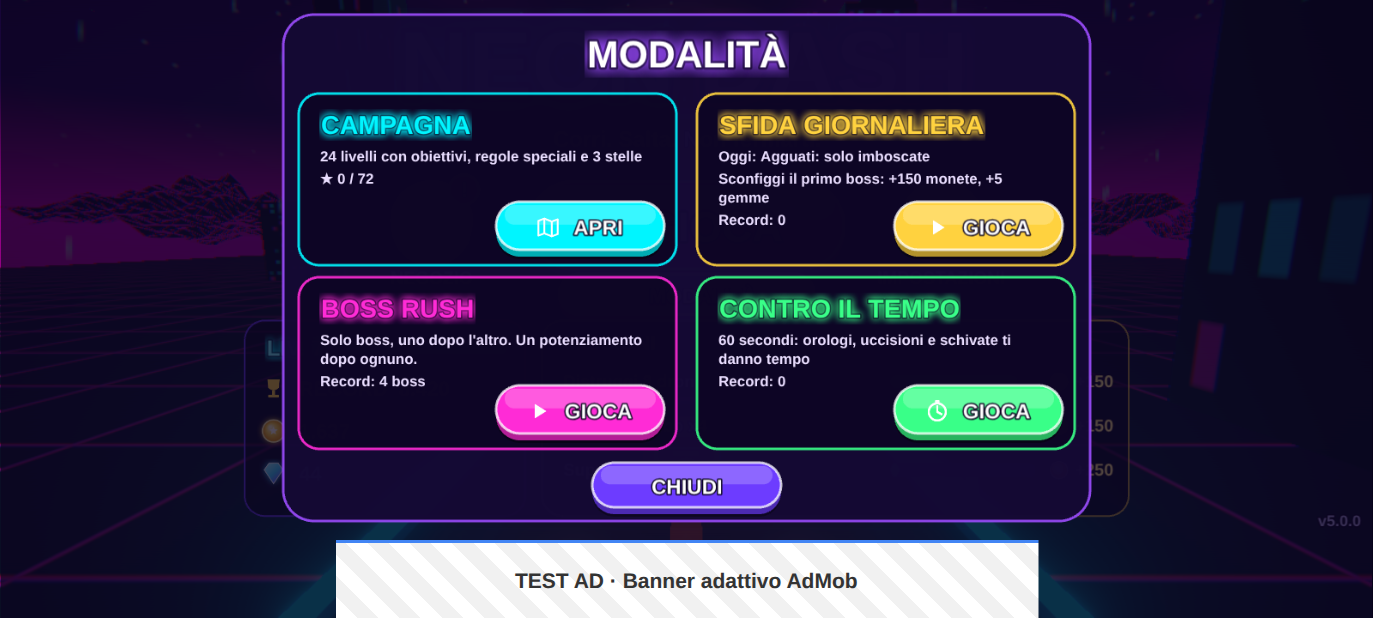
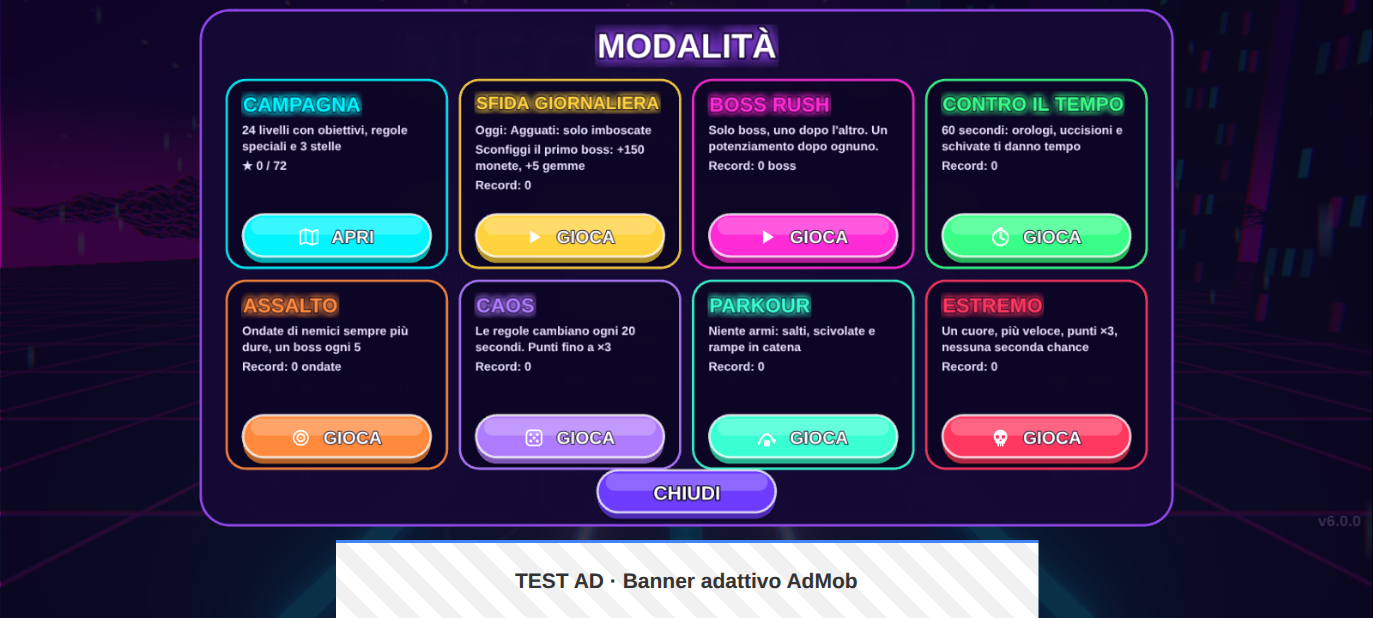
Keep slow devices playable: lighter sun rays, auto quality counts half-second frames
CI failed the browser run at 2 fps: frames of ~0.5 s were dropped as
'pauses', so the automatic quality never stepped down to low. Only frames
over 1.5 s count as pauses now (test added). The god rays only run around
the sun (6 taps on medium, 12 on high) instead of over the whole screen.

README: the 8-mode screen and nine v6 screenshots (assault, chaos,
parkour, road mirror and rays, lava cracks, caustics, warp, record gate,
afterimages).

Claude-Session: https://claude.ai/code/session_01MLEYxGAkkzc4Sh164Z1jeT

diff --git a/src/three/Stage.js b/src/three/Stage.js
@@ -15,8 +15,8 @@ import { ROAD } from './shading.js';
  */
 export const QUALITY = Object.freeze({
   low: { pixelRatio: 1, antialias: false, post: false, msaa: 0, bloom: 0, buildings: 24, particles: 220, trail: false, weather: 120, props: 0.5, rays: 0, mirror: 0 },
-  medium: { pixelRatio: 1.25, antialias: false, post: true, msaa: 0, bloom: 0.85, buildings: 44, particles: 420, trail: true, weather: 260, props: 0.8, rays: 10, mirror: 0 },
-  high: { pixelRatio: 2, antialias: false, post: true, msaa: 4, bloom: 1.0, buildings: 64, particles: 700, trail: true, weather: 420, props: 1, rays: 16, mirror: 0.33 },
+  medium: { pixelRatio: 1.25, antialias: false, post: true, msaa: 0, bloom: 0.85, buildings: 44, particles: 420, trail: true, weather: 260, props: 0.8, rays: 6, mirror: 0 },
+  high: { pixelRatio: 2, antialias: false, post: true, msaa: 4, bloom: 1.0, buildings: 64, particles: 700, trail: true, weather: 420, props: 1, rays: 12, mirror: 0.33 },
 });
 
 /**

diff --git a/src/three/GradeShader.js b/src/three/GradeShader.js
@@ -63,7 +63,8 @@ export const GradeShader = {
       // How much of the sun is visible (buildings, storm): its own brightness.
       vec3 disc = texture2D(tDiffuse, sunPos).rgb;
       float seen = clamp(dot(disc, vec3(0.333)) - 0.35, 0.0, 1.0);
-      if (dist < 0.95) {
+      // Only around the sun (the costly part: RAY_STEPS taps per pixel).
+      if (dist < 0.6) {
         vec2 stepUv = (uv - sunPos) / float(RAY_STEPS) * 0.85;
         vec2 p = uv;
         float decay = 1.0;
@@ -75,7 +76,7 @@ export const GradeShader = {
           acc += s * b * decay;
           decay *= 0.9;
         }
-        add += acc / float(RAY_STEPS) * 1.25 * smoothstep(0.95, 0.1, dist);
+        add += acc / float(RAY_STEPS) * 1.25 * smoothstep(0.6, 0.05, dist);
       }
       // Anamorphic streak across the sun.
       add += sunColor * exp(-abs(toSun.y) * 140.0) * exp(-abs(toSun.x) * 2.6) * 0.32 * seen;

diff --git a/src/services/AutoQuality.js b/src/services/AutoQuality.js
@@ -25,9 +25,13 @@ export class AutoQuality {
     this.time = 0;
   }
 
-  /** Feeds one frame (seconds). Returns true when the last window was too slow. */
+  /**
+   * Feeds one frame (seconds). Returns true when the last window was too
+   * slow. Only frames over 1.5 s count as pauses: a device stuck at 2 fps
+   * (half-second frames) must still step down.
+   */
   sample(dt) {
-    if (!(dt > 0) || dt > 0.5) return false;
+    if (!(dt > 0) || dt > 1.5) return false;
     this.elapsed += dt;
     if (this.elapsed < this.warmup) return false;
     this.frames += 1;

diff --git a/tests/autoQuality.test.js b/tests/autoQuality.test.js
@@ -41,3 +41,12 @@ describe('AutoQuality', () => {
     expect(lowerQuality('nope')).toBe(null);
   });
 });
+
+describe('AutoQuality on a very slow device', () => {
+  it('half-second frames (2 fps) are not mistaken for pauses: the quality steps down', () => {
+    const aq = new AutoQuality();
+    let hit = false;
+    for (let i = 0; i < 30 && !hit; i++) hit = aq.sample(0.52);
+    expect(hit).toBe(true);
+  });
+});

diff --git a/README.md b/README.md
@@ -10,7 +10,7 @@ Modelli 3D, texture, effetti sonori e colonna sonora sono generati proceduralmen
 | ![Turbo](docs/screenshots/turbo.png) | ![Rampa](docs/screenshots/ramp.png) | ![Tempesta](docs/screenshots/storm.png) |
 | **Gravità ridotta (Orbita)** | **Pioggia di meteoriti** | **Boss (Scorpione delle dune)** |
 | ![Gravità ridotta](docs/screenshots/low-gravity.png) | ![Pioggia di meteoriti](docs/screenshots/meteors.png) | ![Boss](docs/screenshots/boss.png) |
-| **Scelta del potenziamento** | **Modalità** | **Negozio** |
+| **Scelta del potenziamento** | **Otto modalità** | **Negozio** |
 | ![Potenziamenti](docs/screenshots/perks.png) | ![Modalità](docs/screenshots/modes.png) | ![Negozio](docs/screenshots/shop.png) |
 | **Ricompensa giornaliera** | **Game Over** | **Impostazioni** |
 | ![Ricompensa giornaliera](docs/screenshots/daily.png) | ![Game over](docs/screenshots/game-over.png) | ![Impostazioni](docs/screenshots/settings.png) |
@@ -22,6 +22,12 @@ Modelli 3D, texture, effetti sonori e colonna sonora sono generati proceduralmen
 | ![Scudo del boss](docs/screenshots/boss-shield.jpg) | ![Boss infuriato](docs/screenshots/boss-enraged.jpg) | ![Overdrive](docs/screenshots/overdrive.jpg) |
 | **Recinzione laser, cecchino e guardia** | **Ora di punta** | **Blackout (Inferno)** |
 | ![Nuove minacce](docs/screenshots/threats.jpg) | ![Ora di punta](docs/screenshots/traffic.jpg) | ![Blackout](docs/screenshots/blackout.jpg) |
+| **Assalto: ondate di nemici** | **Caos: la mutazione Specchio** | **Parkour: catena di trick** |
+| ![Assalto](docs/screenshots/assault.jpg) | ![Caos](docs/screenshots/chaos.jpg) | ![Parkour](docs/screenshots/parkour.jpg) |
+| **Qualità alta: strada a specchio e raggi di sole** | **Inferno: crepe di lava (con il warp)** | **Abisso: caustiche sul fondale** |
+| ![Specchio e raggi](docs/screenshots/mirror-rays.jpg) | ![Crepe di lava](docs/screenshots/lava-road.jpg) | ![Caustiche](docs/screenshots/caustics.jpg) |
+| **Warp verso il Deserto** | **Portale del record** | **Scie in overdrive** |
+| ![Warp](docs/screenshots/warp.jpg) | ![Portale del record](docs/screenshots/record-gate.jpg) | ![Scie](docs/screenshots/afterimages.jpg) |
 
 ## Scelte di progetto
 
